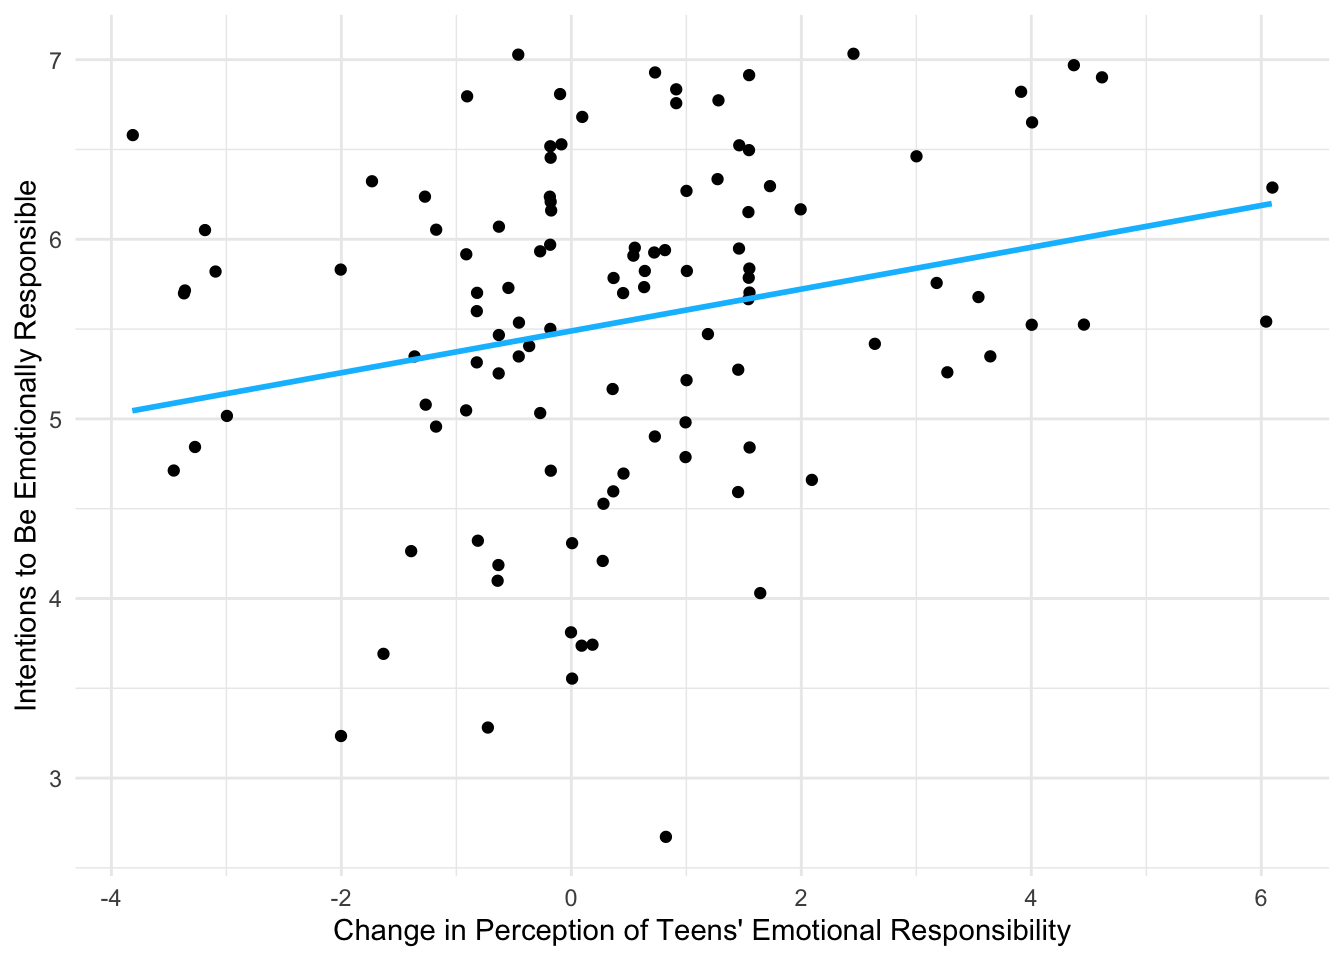
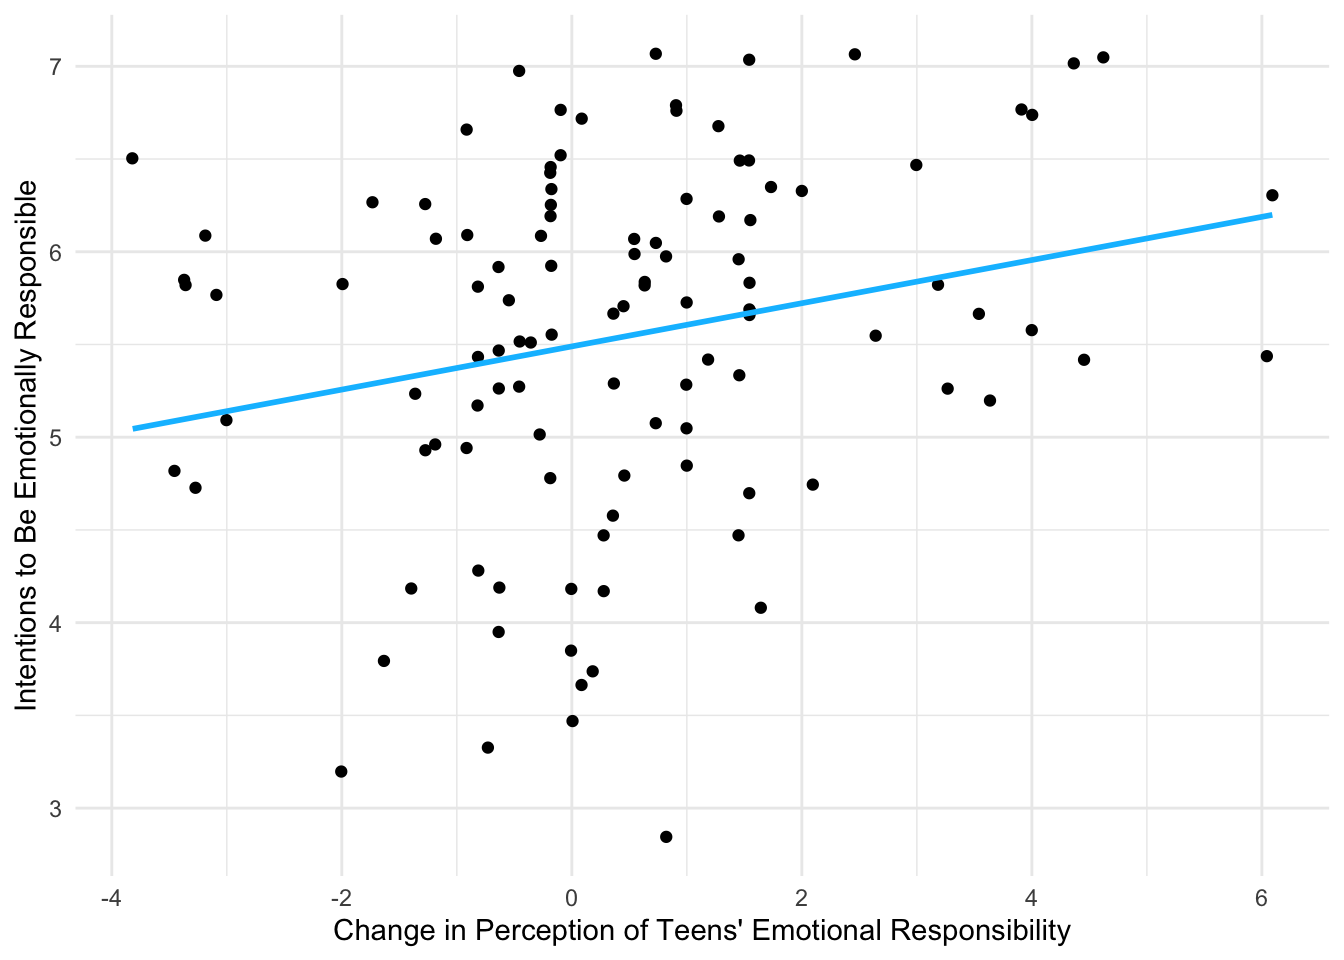
updated plot

diff --git a/docs/p04.html b/docs/p04.html
@@ -533,8 +533,91 @@ p6 &lt;- counterstereotype_filtered %&gt;%
 <p><img src="p04_files/figure-html/combine-plots-1.png" width="1440" /></p>
 <pre class="r"><code>combined_plot &lt;- (p1 + p2 + p3) / (p4 + p5 + p6) + plot_annotation(title = &#39;Improvements in Views of Teens Predict More Positive Behavioral Intentions&#39;, theme = theme(plot.title = element_text(hjust = 0.5)))
 
-ggsave(&quot;SRA_BehInt-plot.png&quot;, plot = combined_plot, width = 15)</code></pre>
+ggsave(&quot;SRA_BehInt-plot.png&quot;, plot = combined_plot, width = 15, height = 10)</code></pre>
 </div>
+</div>
+<div
+id="update-after-getting-feedback-from-my-lab-i-have-decided-to-recode-the-change-scores-for-negative-attributes-only-such-that-positive-change-scores-are-all-indicative-of-improvments-in-views-of-teens."
+class="section level2">
+<h2>Update: After getting feedback from my lab, I have decided to recode
+the change scores for negative attributes only, such that positive
+change scores are all indicative of improvments in views of teens.</h2>
+<pre class="r"><code>counterstereotype_filtered$Change_antisocial_R &lt;- counterstereotype_filtered$Change_antisocial * -1
+counterstereotype_filtered$Change_NEB_R &lt;- counterstereotype_filtered$Change_NEB * -1
+counterstereotype_filtered$Change_NA_R &lt;- counterstereotype_filtered$Change_NA * -1</code></pre>
+<pre class="r"><code>counterstereotype_filtered %&gt;%
+  ggplot(aes(x = Change_antisocial_R, y = `@2BInt_antisocial`)) +
+  geom_jitter() +
+  geom_smooth(method = &quot;lm&quot;, se = FALSE, color = &quot;pink2&quot;) + 
+  labs(x = &quot;Change in Perception of Teens&#39; Antisocial Behavior&quot;,
+       y = &#39;Intentions to Engage in Antisocial Behavior&#39; ) +
+  theme_minimal()</code></pre>
+<p><img src="p04_files/figure-html/scatter-antisocial-2-1.png" width="672" /></p>
+<pre class="r"><code>counterstereotype_filtered %&gt;%
+  ggplot(aes(x = Change_NEB_R, y = `@2BInt_NEB`)) +
+  geom_jitter() +
+  geom_smooth(method = &quot;lm&quot;, se = FALSE, color = &quot;deeppink&quot;) + 
+  labs(x = &quot;Change in Perception of Teens&#39; Normalized Externalizing Behavior&quot;,
+       y = &#39;Intentions to Engage in Externalizing Behavior&#39; ) +
+  theme_minimal()</code></pre>
+<p><img src="p04_files/figure-html/scatter-NEB-2-1.png" width="672" /></p>
+<pre class="r"><code>counterstereotype_filtered %&gt;%
+  ggplot(aes(x = Change_NA_R, y = `@2BInt_NA`)) +
+  geom_jitter() +
+  geom_smooth(method = &quot;lm&quot;, se = FALSE, color = &quot;hotpink&quot;) + 
+  labs(x = &quot;Change in Perception of Teens&#39; Negative Autonomy&quot;,
+       y = &#39;Intentions to Engage in Negative Autonomy&#39; ) +
+  theme_minimal()</code></pre>
+<p><img src="p04_files/figure-html/scatter-NA-2-1.png" width="672" /></p>
+<pre class="r"><code>p1 &lt;- counterstereotype_filtered %&gt;%
+  ggplot(aes(x = Change_NEB_R, y = `@2BInt_NEB`)) +
+  geom_jitter() +
+  geom_smooth(method = &quot;lm&quot;, se = FALSE, color = &quot;deeppink&quot;) + 
+  labs(x = &quot;Improvement in Perception of Teens&#39; Normalized Externalizing Behavior*&quot;,
+       y = &#39;Intentions to Engage in Externalizing Behavior&#39; ) +
+  theme_minimal()
+
+p2 &lt;- counterstereotype_filtered %&gt;%
+  ggplot(aes(x = Change_NA_R, y = `@2BInt_NA`)) +
+  geom_jitter() +
+  geom_smooth(method = &quot;lm&quot;, se = FALSE, color = &quot;hotpink&quot;) + 
+  labs(x = &quot;Improvement in Perception of Teens&#39; Negative Autonomy*&quot;,
+       y = &#39;Intentions to Engage in Negative Autonomy&#39; ) +
+  theme_minimal()
+
+p3 &lt;- counterstereotype_filtered %&gt;%
+  ggplot(aes(x = Change_antisocial_R, y = `@2BInt_antisocial`)) +
+  geom_jitter() +
+  geom_smooth(method = &quot;lm&quot;, se = FALSE, color = &quot;pink2&quot;) + 
+  labs(x = &quot;Improvement in Perception of Teens&#39; Antisocial Behavior*&quot;,
+       y = &#39;Intentions to Engage in Antisocial Behavior&#39; ) +
+  theme_minimal()
+
+p4 &lt;- counterstereotype_filtered %&gt;%
+  ggplot(aes(x = Change_PFI, y = `@2BInt_PFI`)) +
+  geom_jitter() +
+  geom_smooth(method = &quot;lm&quot;, se = FALSE, color = &quot;blue&quot;) + 
+  labs(x = &quot;Improvement in Perception of Teens&#39; Positive Family Influence*&quot;,
+       y = &#39;Intentions to Engage Positively with Family&#39; ) +
+  theme_minimal()
+
+p5 &lt;- counterstereotype_filtered %&gt;%
+  ggplot(aes(x = Change_ER, y = `@2BInt_PR`)) +
+  geom_jitter() +
+  geom_smooth(method = &quot;lm&quot;, se = FALSE, color = &quot;deepskyblue&quot;) + 
+  labs(x = &quot;Improvement in Perception of Teens&#39; Emotional Responsibility*&quot;,
+       y = &#39;Intentions to Be Emotionally Responsible&#39; ) +
+  theme_minimal()
+
+p6 &lt;- counterstereotype_filtered %&gt;%
+  ggplot(aes(x = Change_AE, y = `@2BInt_AE`)) +
+  geom_jitter() +
+  geom_smooth(method = &quot;lm&quot;, se = FALSE, color = &quot;darkturquoise&quot;) + 
+  labs(x = &quot;Improvement in Perception of Teens&#39; Academic Engagement&quot;,
+       y = &#39;Intentions to Be Academically Engaged&#39; ) +
+  theme_minimal()</code></pre>
+<pre class="r"><code>(p1 + p2 + p3) / (p4 + p5 + p6) </code></pre>
+<p><img src="p04_files/figure-html/combine-plots2-1.png" width="1440" /></p>
 </div>
 
 
